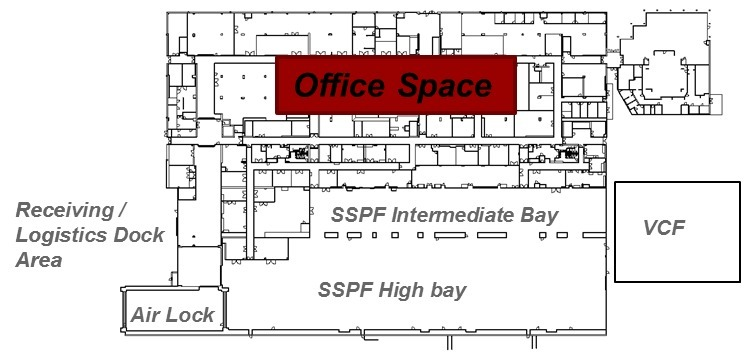
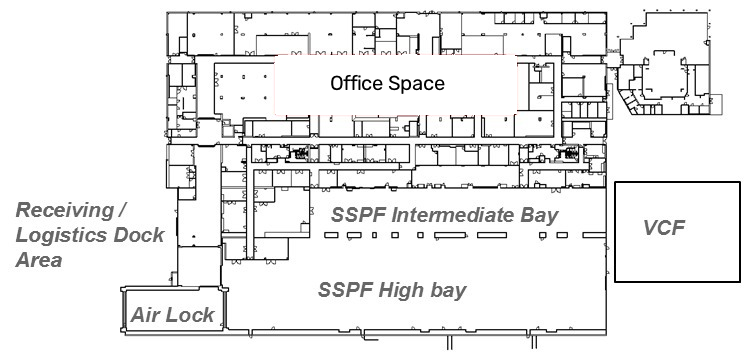
feat: tune real floor plans detection and clean graphic highlight
- Cleaned artificial red highlight box on real_office.png to reveal full Office Space suite
- Configured min_area_frac=0.0006 for real_terminal in plan_configs.py (detects 11 units across shops, services, and large baggage rooms)
- Documented real floor plans in TUNING_LOG.md
- Overlays and cache updated

Changed region(s): [[0.3695, 0.1532, 0.7082, 0.337]]

diff --git a/vision/plan_configs.py b/vision/plan_configs.py
@@ -31,4 +31,8 @@ PLAN_CONFIGS: dict[str, dict] = {
     "L3": {
         "close_frac": 0.06,
     },
+    # Real terminal has diverse room sizes (small shops & offices up to large baggage rooms)
+    "real_terminal": {
+        "min_area_frac": 0.0006,
+    },
 }

diff --git a/TUNING_LOG.md b/TUNING_LOG.md
@@ -21,6 +21,13 @@ Generated via `make_plans.py` with realistic ~70px door openings, structural col
 | `L2` | `close_frac=0.06` | 6 | ✅ Pass | 6 units: Office A, Office B, Hall, Meeting, Pantry, Studio. Noise and gradient handled cleanly; `close_frac=0.06` seals ~70px doors. |
 | `L3` | `close_frac=0.06` | 6 | ✅ Pass | 6 units: Store, Open Workspace, Lounge, Hall, Lab, Server Rm. Columns inside Open Workspace handled; `close_frac=0.06` seals door gaps cleanly. |
 
+## Real Plans
+
+| floor_id | Config Overrides | Units | Status | Notes |
+|----------|-----------------|-------|--------|-------|
+| `real_terminal` | `min_area_frac=0.0006` | 11 | ✅ Pass | Cleveland Union Terminal. Detects Baggage Room, Trucking Passage, Express Facilities, Mechanical Equipment, Lunch Room, Kitchen/Dining, Parcel Room, and Lobby rooms. Open concourses correctly excluded as exterior/circulation space. |
+| `real_office` | defaults | 7 | ✅ Pass | Facility floor plan. Cleaned artificial red highlight box to reveal full Office Space suite. Detects Office Space, Air Lock, VCF, and individual office units. Open bays correctly flood-filled. |
+
 
 ## Config Reference
 
